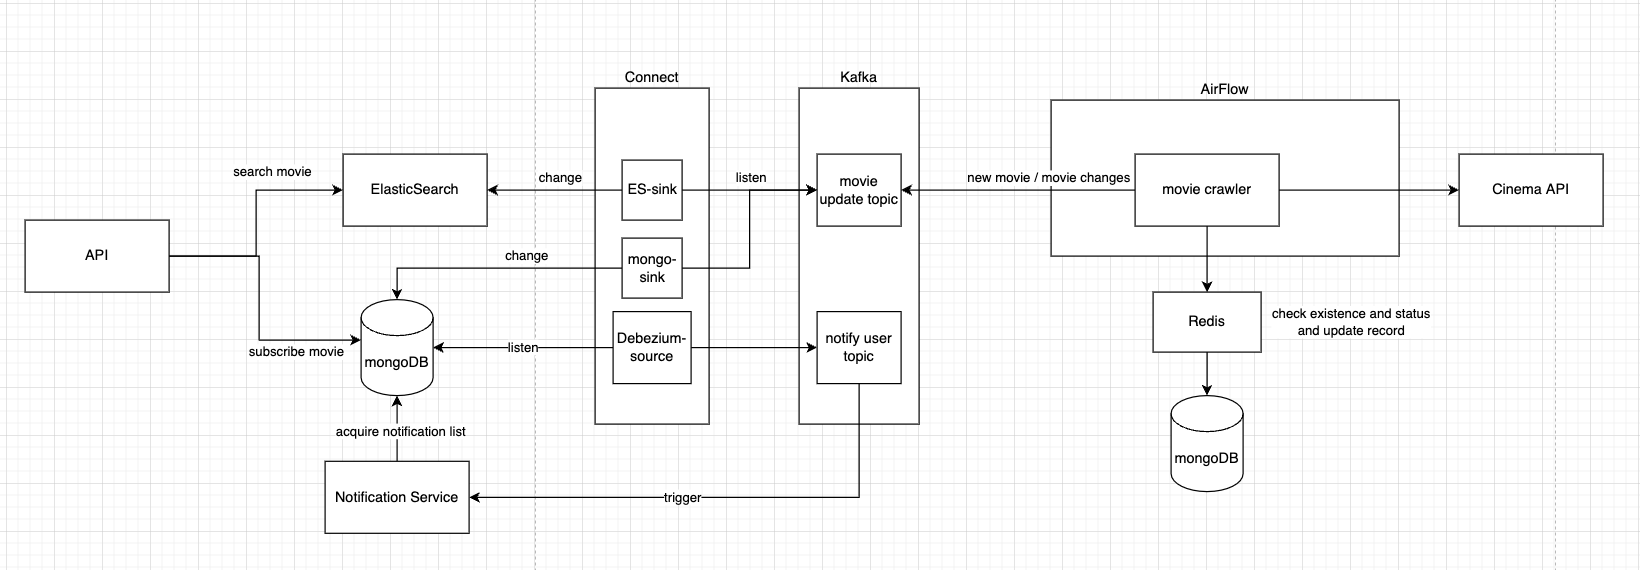
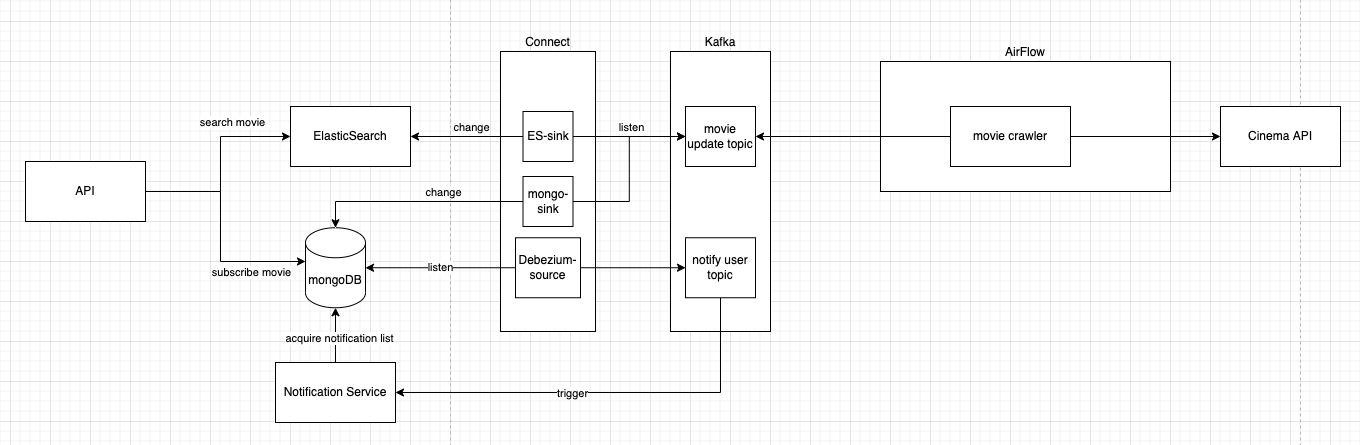
update python version and arch

diff --git a/airflow/modules/cineplex/cineplex_executor.py b/airflow/modules/cineplex/cineplex_executor.py
@@ -1,55 +1,25 @@
 import json
-import logging
 
 import datetime as dt
 from airflow.dag.dag_config import Config
 from airflow.modules.cineplex.cineplex_producer import CineplexProducer
 from airflow.modules.cineplex.cineplex_scraper import CineplexScraper
 
-from airflow.tool.redis_client import RedisClient
 from common import KafkaTopic, Cinema, Movie, MovieStatus
 
 
 class CineplexExecutor:
-    _total_movie_key = 'CINEPLEX_TOTAL_MOVIE'
-
-    def __init__(self, redis_key, redis_config):
-        self.redis_client = RedisClient(redis_key, redis_config)
+    def __init__(self):
         self.scraper = CineplexScraper(Config.CINEMA_API[Cinema.CINEPLEX])
         self.producer = CineplexProducer(Config.KAFKA_SERVERS)
 
     # TODO: retry
     def execute(self):
-        total_movie_count = self.get_total_movie()
-
-        response = self.scraper.get_text(0, total_movie_count)
+        response = self.scraper.get_text(0, 500)
         response_json = json.loads(response)
-
-        self.redis_update_total_movie(response_json['totalCount'])
 
         for movie in self.to_movies(response_json):
             self.producer.publish(KafkaTopic.movie, movie)
-
-    # get total movie count from redis
-    # if it is empty, pull it from API and store it
-    def get_total_movie(self):
-        try:
-            total_count_from_redis = self.redis_get_total_movie()
-
-            if total_count_from_redis is None:
-                total_count_from_api = json.loads(self.scraper.get_text(0, 0))['totalCount']
-                self.redis_update_total_movie(total_count_from_api)
-                return total_count_from_api
-
-            return total_count_from_redis
-        except Exception as err:
-            logging.error('[Cineplex] fail to get total movie', err)
-
-    def redis_get_total_movie(self):
-        return self.redis_client.get(self._total_movie_key)
-
-    def redis_update_total_movie(self, count: int):
-        return self.redis_client.set(self._total_movie_key, count)
 
     # convert into movie and movie status and publish them
     def to_movies(self, json_string):
@@ -63,7 +33,7 @@ class CineplexExecutor:
             self.duration(entry['duration']),
             self.rating(entry['mpaaRating']['ratingTitle']),
             Cinema.CINEPLEX,
-            entry['mediumPosterImageUrl']
+            entry['largePosterImageUrl']
         )
 
     @staticmethod

diff --git a/airflow/modules/tests/cineplex/test_cineplex_executor.py b/airflow/modules/tests/cineplex/test_cineplex_executor.py
@@ -2,7 +2,7 @@ import datetime as dt
 
 from airflow.modules.cineplex.cineplex_executor import CineplexExecutor
 from common import Movie, MovieStatus, Cinema
-from ..fixtures import cineplex_api_response, redis_config
+from ..fixtures import cineplex_api_response
 
 
 def test_duration():
@@ -11,8 +11,8 @@ def test_duration():
     assert result == expected
 
 
-def test_to_movies(redis_config, cineplex_api_response):
-    executor = CineplexExecutor("test", redis_config)
+def test_to_movies(cineplex_api_response):
+    executor = CineplexExecutor("test")
     result = list(executor.to_movies(cineplex_api_response))[0]
 
     expected = Movie(

diff --git a/airflow/modules/tests/fixtures.py b/airflow/modules/tests/fixtures.py
@@ -1,25 +1,10 @@
 import json
 
 from pkg_resources import resource_string
-import fakeredis as fakeredis
 import pytest
-
-
-@pytest.fixture
-def redis_mock():
-    yield fakeredis.FakeStrictRedis()
 
 
 @pytest.fixture
 def cineplex_api_response():
     yield json.loads(resource_string("tests", f"test_data/cineplex_api.txt").decode('utf-8'))
-
-
-@pytest.fixture
-def redis_config():
-    yield {
-        "host": "redis",
-        "port": "6379",
-        "db": 0
-    }
 

diff --git a/README.md b/README.md
@@ -5,7 +5,8 @@
 ## Introduction
 
 This project aims to create a data pipeline with Python, AirFlow, Kafka Connect, ElasticSearch and mongoDB,
-which allows users to search movies and subscribe for updates
+which allows users to search movies and subscribe for updates.
+
 
 
 ## API:
